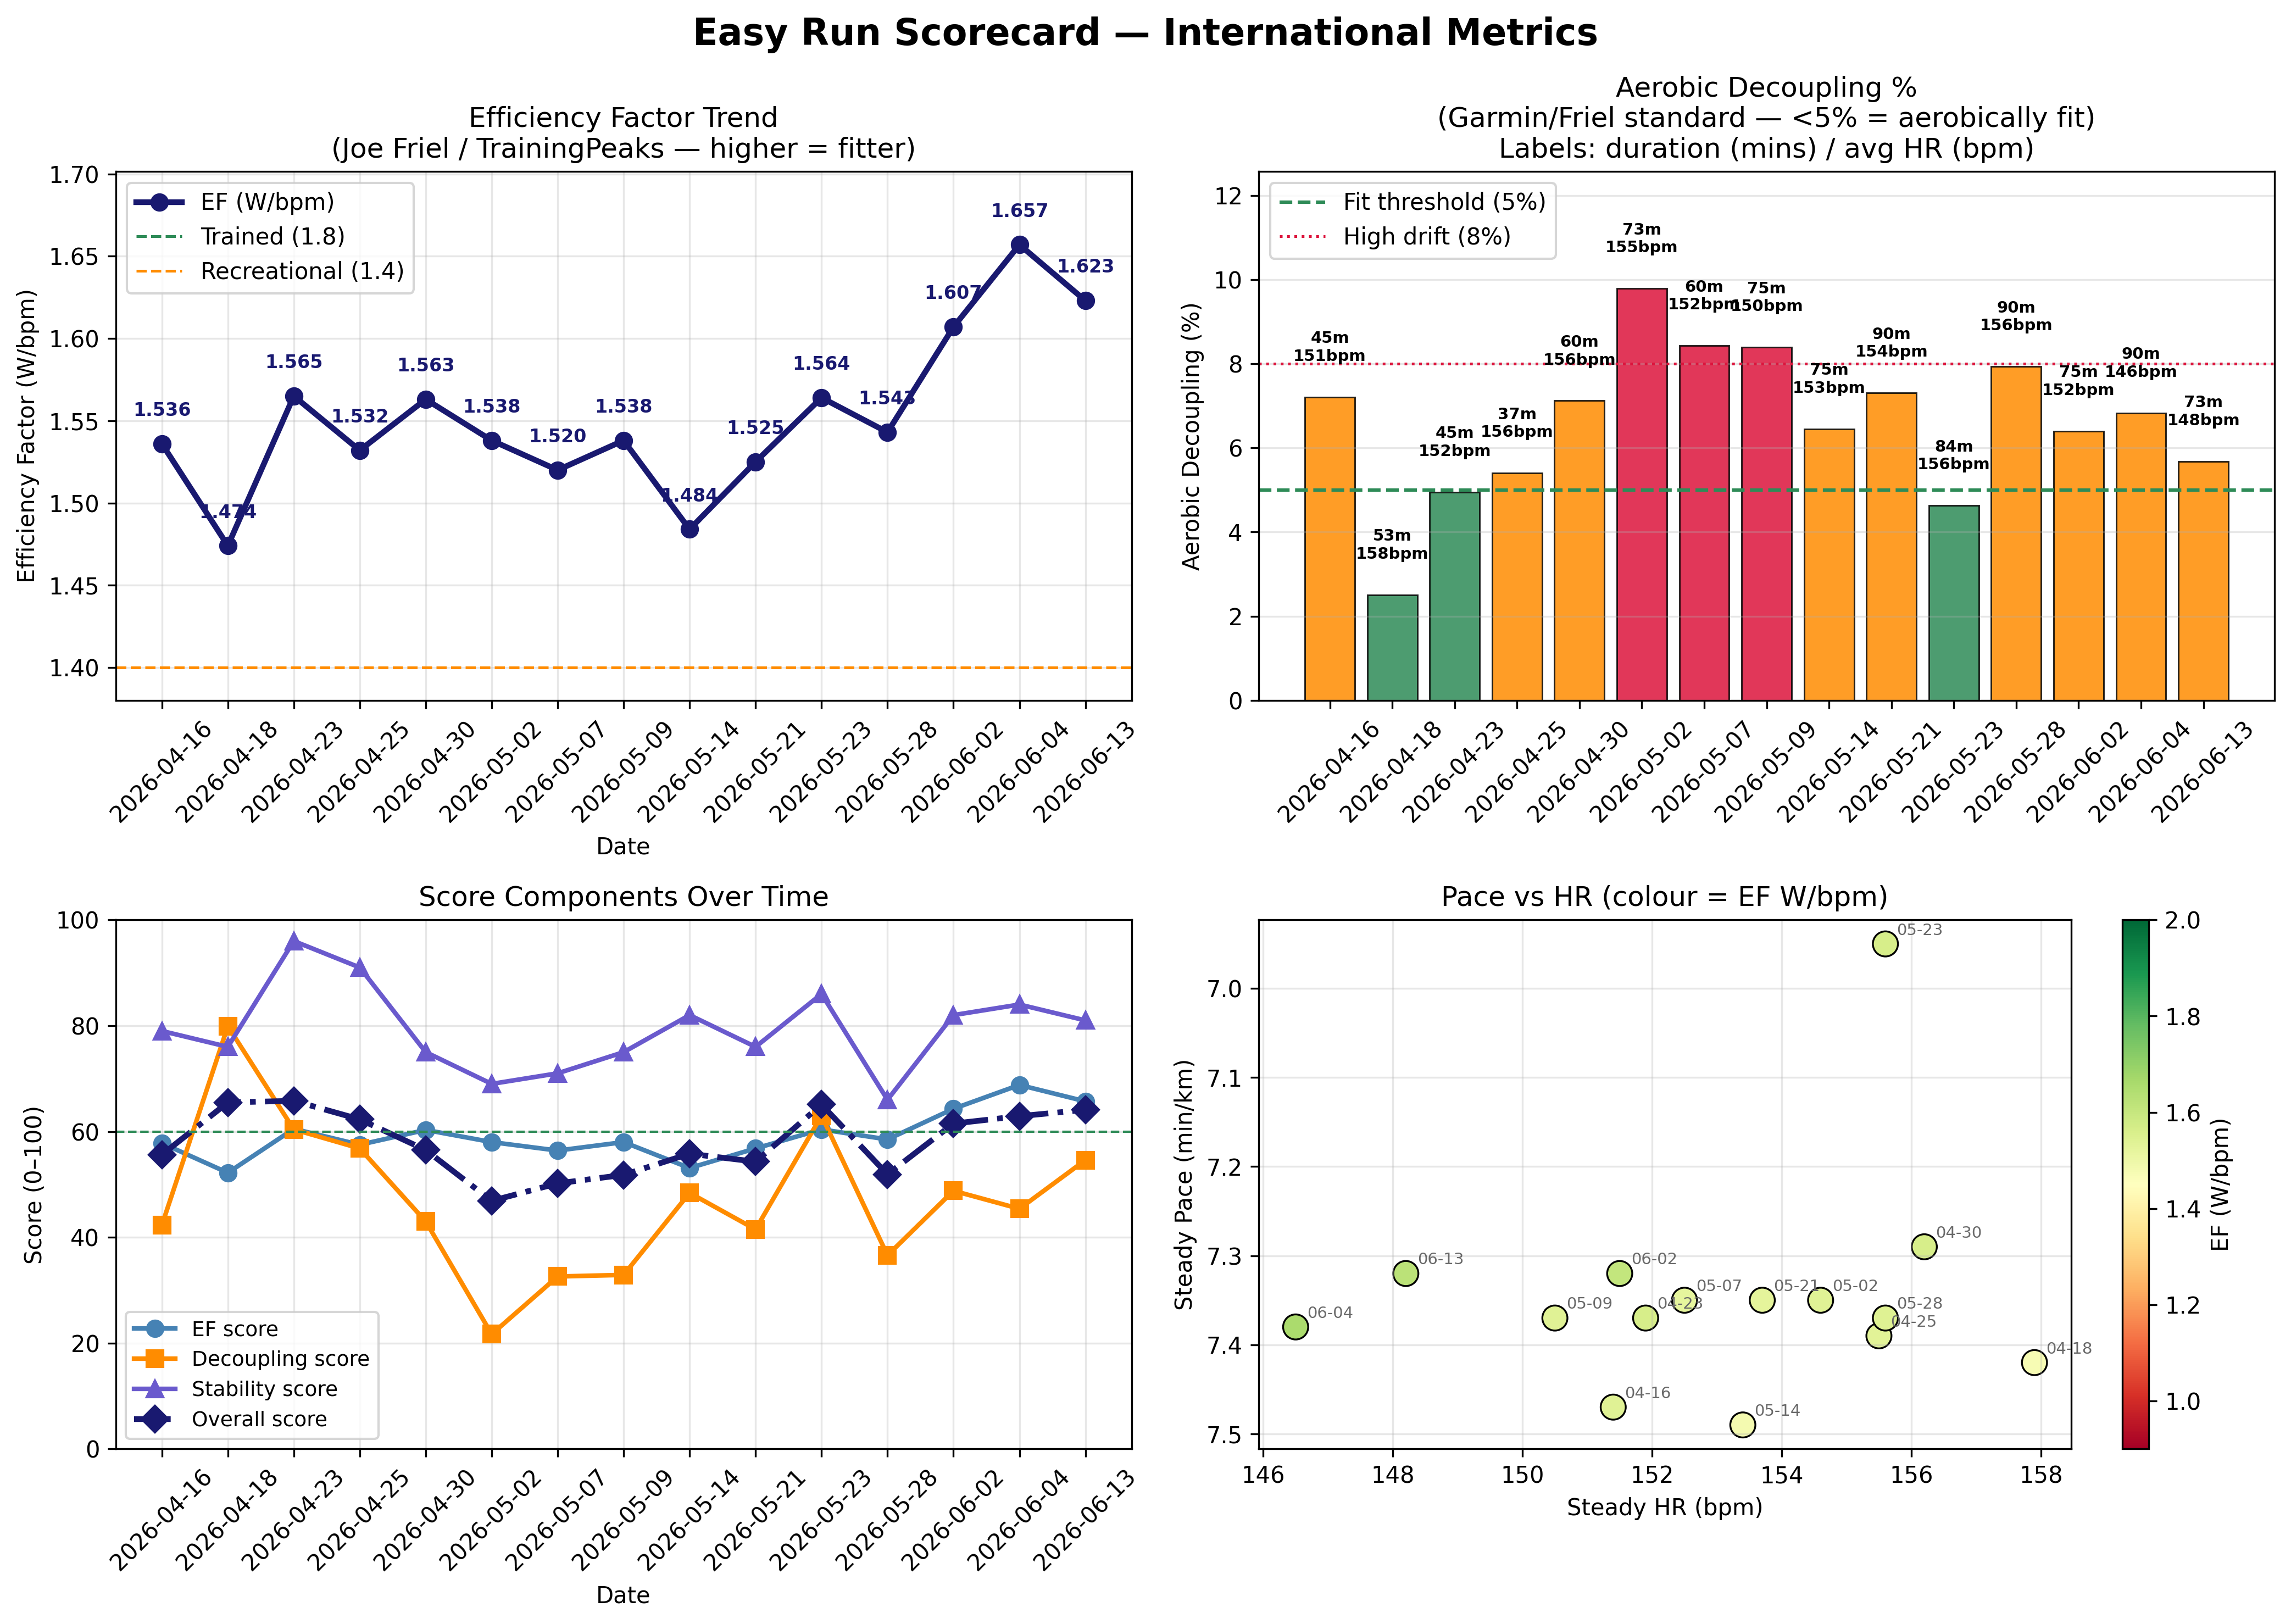
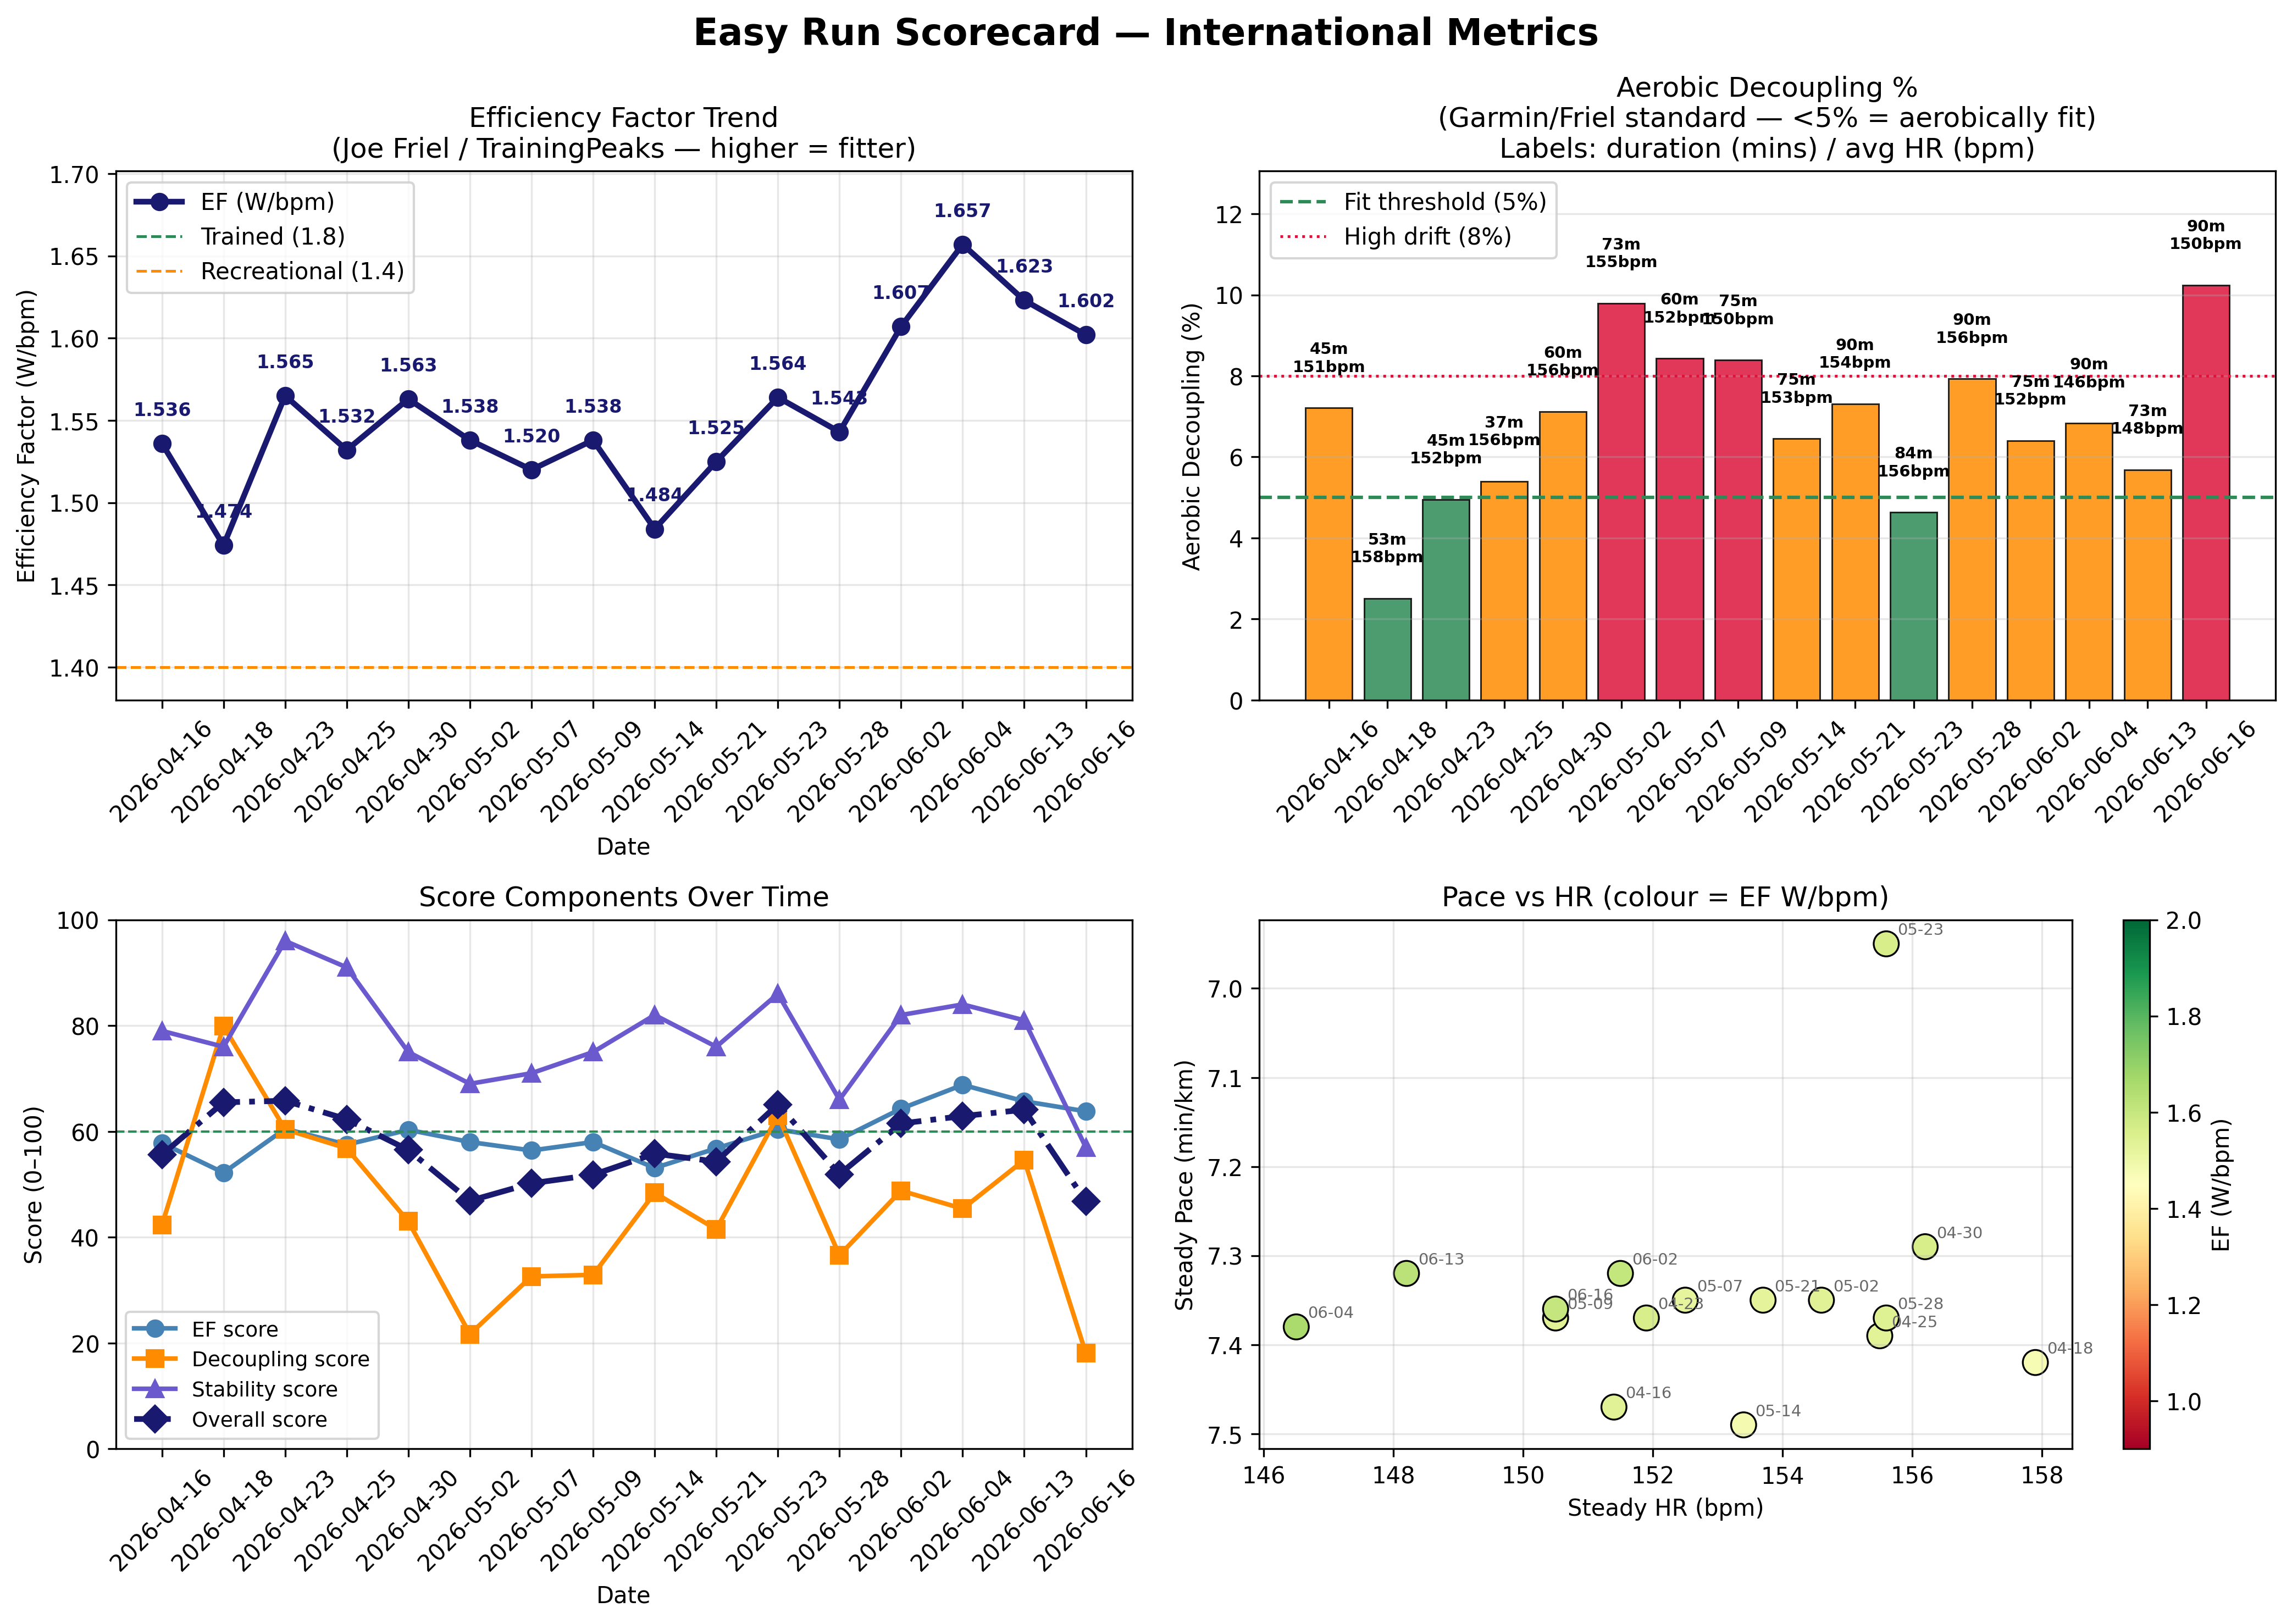
report as of 16/6 - 90min Easy

diff --git a/reports/easy/hr_timeline_report.md b/reports/easy/hr_timeline_report.md
@@ -1,10 +1,11 @@
 # Easy Run Endurance Analysis
 
-Overall status: **improving**
+Overall status: **improving_with_fatigue_risk**
 
-- Efficiency Factor (EF, W/bpm — Joe Friel / TrainingPeaks standard): first run 1.536 W/bpm -> last run 1.623 W/bpm (+5.7%). Reference: <1.4 beginner, 1.4–1.8 recreational, 1.8+ trained.
-- Aerobic Decoupling (Garmin / Joe Friel standard — <5% = aerobically fit run): median 6.8%, 3/15 runs below the 5% threshold. This metric is load-independent — valid for comparing 5 km and 10 km easy runs.
-- Latest run score 64.1/100 (EF 65.7, decoupling 54.6, stability 81.0).
+- Efficiency Factor (EF, W/bpm — Joe Friel / TrainingPeaks standard): first run 1.536 W/bpm -> last run 1.602 W/bpm (+4.3%). Reference: <1.4 beginner, 1.4–1.8 recreational, 1.8+ trained.
+- Aerobic Decoupling (Garmin / Joe Friel standard — <5% = aerobically fit run): median 7.0%, 3/16 runs below the 5% threshold. This metric is load-independent — valid for comparing 5 km and 10 km easy runs.
+- Latest run score 46.8/100 (EF 63.8, decoupling 18.1, stability 57.0).
+- Latest week shows fatigue risk: aerobic decoupling 10.2%, score 46.8.
 
 ## Metric Availability
 
@@ -32,6 +33,7 @@ Overall status: **improving**
 | 2026-06-02 | 75min Easy | 10.26 | 7.32 | 152 | 1.607 | 6.4 | 0.7% | 3.3% | 3639.4 | improving |
 | 2026-06-04 | 90min Easy | 12.23 | 7.38 | 146 | 1.657 | 6.8 | -0.8% | 2.6% | 3715.3 | improving |
 | 2026-06-13 | 10K Easy | 10.02 | 7.32 | 148 | 1.623 | 5.7 | 0.8% | -0.3% | 3481.3 | steady |
+| 2026-06-16 | 90min Easy | 12.28 | 7.36 | 150 | 1.602 | 10.2 | -0.5% | -2.1% | 3687.5 | fatigue_risk |
 
 ## Weekly Summary
 
@@ -46,14 +48,15 @@ Overall status: **improving**
 | 21 | 2026-05-28 to 2026-05-28 | 1 | 51.9 | 1.543 | 7.9 | fatigue_risk |
 | 22 | 2026-06-02 to 2026-06-04 | 2 | 62.2 | 1.632 | 6.6 | improving |
 | 23 | 2026-06-13 to 2026-06-13 | 1 | 64.1 | 1.623 | 5.7 | steady |
+| 24 | 2026-06-16 to 2026-06-16 | 1 | 46.8 | 1.602 | 10.2 | fatigue_risk |
 
 ## Overall Observations Worth Tracking
 
-- Steady-state easy pace changed +2.0% from the first comparable run to the latest run.
-- Steady power-per-heartbeat changed +5.7% across the timeline, which is the cleanest aerobic-efficiency signal in this dataset.
-- Aerobic decoupling moved -1.5 percentage points from the opening run to the latest run.
-- 12 runs were recorded at 30 C or hotter; heat is a plausible confounder for drift and HR cost in this sample.
-- 3/15 runs crossed the 8% decoupling line, which is the strongest within-run fatigue signal in these easy sessions.
+- Steady-state easy pace changed +1.5% from the first comparable run to the latest run.
+- Steady power-per-heartbeat changed +4.3% across the timeline, which is the cleanest aerobic-efficiency signal in this dataset.
+- Aerobic decoupling moved +3.0 percentage points from the opening run to the latest run.
+- 13 runs were recorded at 30 C or hotter; heat is a plausible confounder for drift and HR cost in this sample.
+- 4/16 runs crossed the 8% decoupling line, which is the strongest within-run fatigue signal in these easy sessions.
 
 ## Per-Run Summaries
 
@@ -1055,6 +1058,73 @@ Overall status: **improving**
 #### 8. Recommendations
 
 - If the goal is true zone-2 development, reduce pace until more of the run stays inside Garmin zone 2 instead of zone 3-4.
+
+### 2026-06-16 - 90min Easy
+
+#### 1. Executive Summary
+
+- 12.28 km in 90.1 min, average pace 7.33 min/km, steady pace 7.36 min/km.
+- Average HR 147 bpm, steady HR 150 bpm, EF 1.602 W/bpm, aerobic decoupling 10.2%.
+- Reference comparison (2026-06-13): pace -0.5% better/worse depending on sign, EF -1.3%, drift delta 4.6 pts.
+
+#### 2. Key Metrics Table
+
+| Category | Metric | Value | Status |
+| --- | --- | --- | --- |
+| Basic | Duration | 90.1 min | measured |
+| Basic | Distance | 12.28 km | measured |
+| Basic | Average pace | 7.33 min/km | measured |
+| Basic | Moving pace | 7.34 min/km | measured |
+| Basic | Best pace | 5.99 min/km | measured |
+| Basic | Elevation gain/loss | 8.0 m / 11.0 m | measured |
+| Environment | Average / max temperature | 31.0 C / 33.0 C | measured |
+| Heart rate | Average / max HR | 147 / 164 bpm | measured |
+| Heart rate | HR zone distribution | Z1 1.4%, Z2 14.6%, Z3 68.3%, Z4 15.8%, Z5 0.0% | measured |
+| Heart rate | Recovery HR at 120 s | 30.0 bpm | measured |
+| Heart rate | Settled HR at 120 s (post-stop) | 131.0 bpm | measured |
+| Heart rate | Resting HR (profile) | 63.0 bpm | measured |
+| Power | Average / max / normalized power | 242.0 W / 308.0 W / 243.0 W | measured |
+| Power | Power zones | Z1 0.1%, Z2 54.0%, Z3 45.8%, Z4 0.1%, Z5 0.0% | measured |
+| Power | W/kg / stability | 3.29 W/kg / 6.2% CV | measured |
+| Dynamics | Cadence / stride length | 164 spm / 0.828 m | measured |
+| Dynamics | Ground contact / vertical oscillation / vertical ratio | 286.0 ms / 81.7 mm / 9.87% | measured |
+| Aerobic | Training effect / anaerobic TE | 3.3 / 0.0 | measured |
+| Aerobic | Load focus | low_aerobic_estimated | estimated |
+| Recovery | Body Battery / HRV / stress / recovery time | unavailable / unavailable / unavailable / unavailable | unavailable |
+| Recovery | Estimated sweat loss | 1501.0 mL (1.501 L) | measured |
+| Recovery | Sleep profile window | 21:30:00 to 04:30:00 | measured |
+
+#### 3. Physiological Interpretation
+
+- Cardiac drift rose above the ideal easy-run range, suggesting either excessive intensity for the day, heat strain, or incomplete recovery.
+- At roughly the same steady HR as the reference run, pace changed -0.5%, which is direct evidence about aerobic development.
+
+#### 4. Aerobic Efficiency Analysis
+
+- Steady-state EF was 1.602 W/bpm and steady speed per HR was 0.01505 m/s/bpm.
+- Aerobic decoupling was 10.2% and power-HR decoupling was 10.2%.
+- Time spent in Garmin HR zone 2 was 13.1 min; pace inside that zone was 7.30 min/km.
+
+#### 5. Fatigue/Recovery Assessment
+
+- Fatigue resilience score: 0.0/100 with steady HR rise 8.8 bpm. 
+- Rolling 3-run load proxy: 3687.5 kJ mechanical work and 9.7 summed aerobic training effect.
+- Recovery-specific Garmin wellness metrics were not embedded in these FIT files, so under-recovery can only be inferred indirectly from drift, HR cost, and temperature context.
+
+#### 6. Running Economy Notes
+
+- Mechanical energy cost was 106.5 J/m and average running economy was 106.5 W per m/s.
+- Cadence stability was 3.4% CV and pace durability changed 0.8% from early to late thirds.
+
+#### 7. Concerns or Risks
+
+- High aerobic decoupling at 10.2% suggests cardiovascular drift beyond a typical easy-run target.
+- Average temperature was 31.0 C, so heat strain is a realistic contributor to elevated HR and drift.
+
+#### 8. Recommendations
+
+- Slow the first 15-20 minutes or insert brief walk resets so the steady section stays below the decoupling threshold.
+- Treat this run as heat-adjusted data: compare it mainly against other warm runs and prioritize hydration/cooling over pace targets.
 
 ## Suggested Visualization Ideas
 